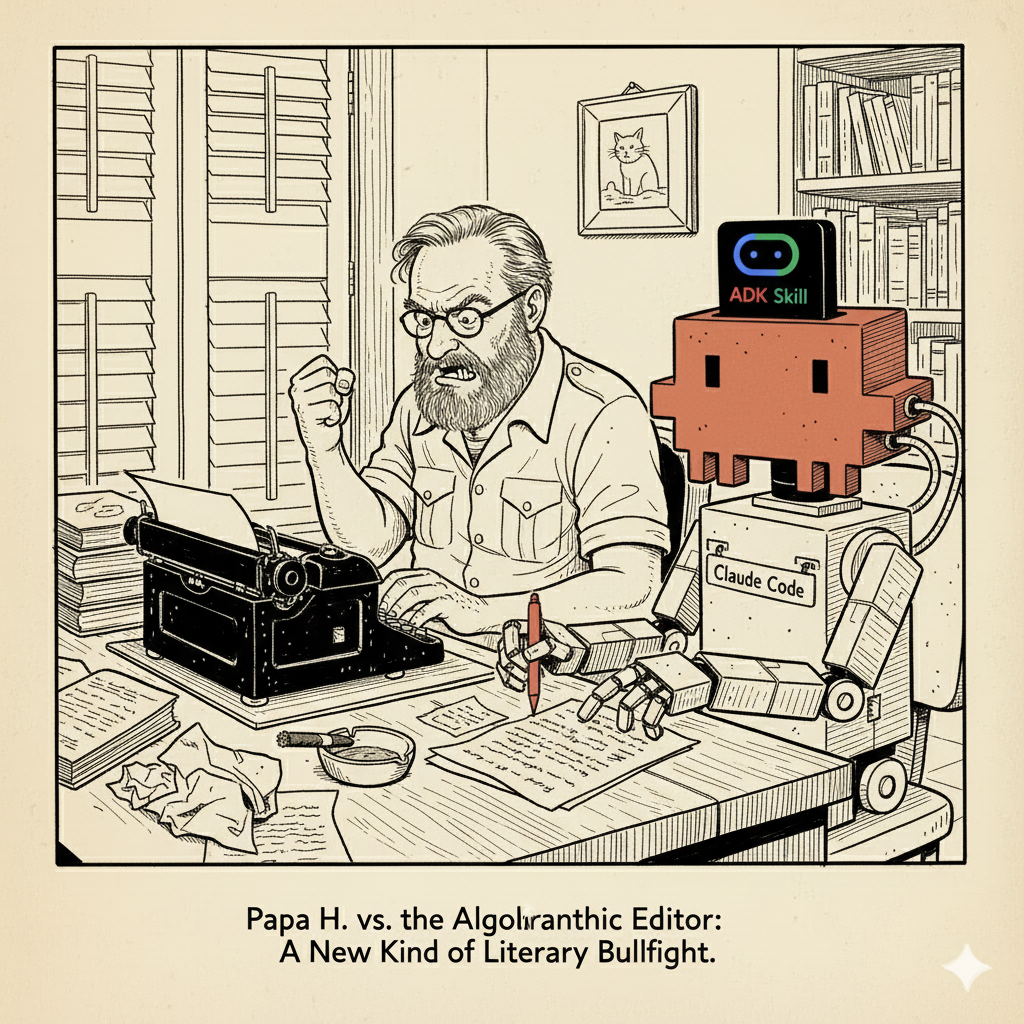
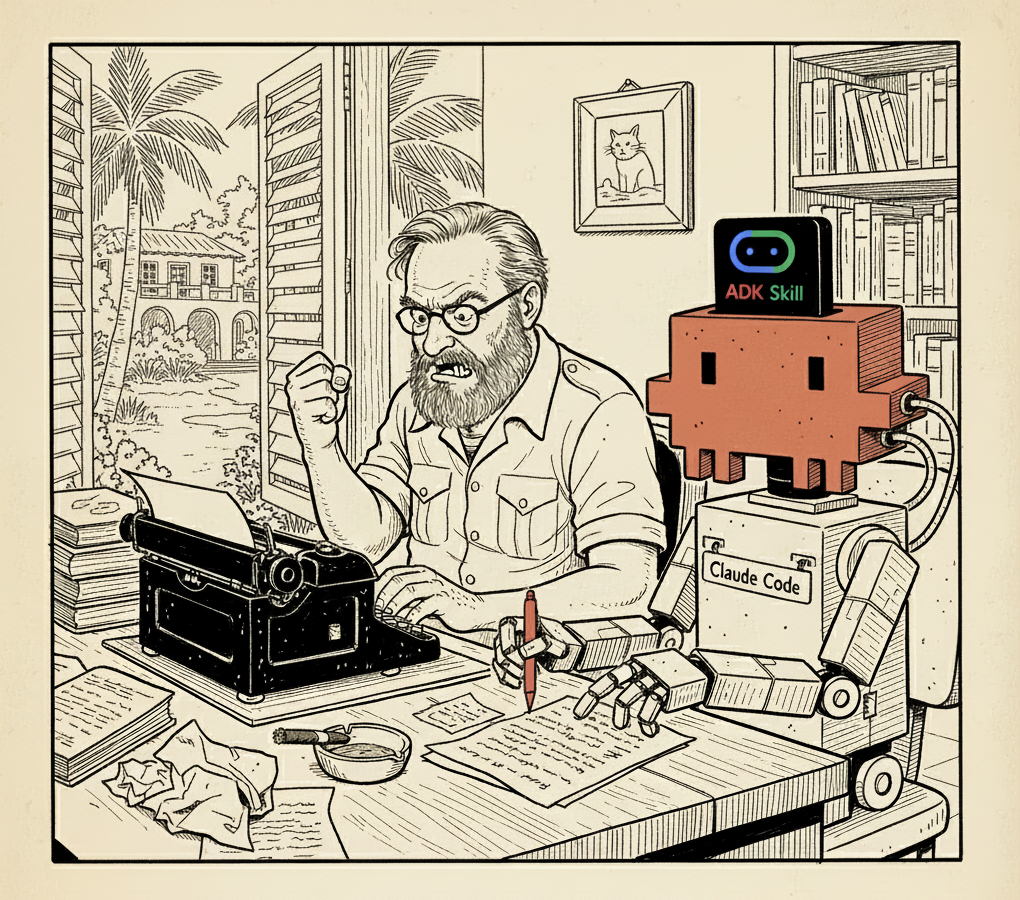
Update article intro and hero image caption
- Add caption to Ernest and agent hero image
- Refine introductory text for clarity
- Update bullet points to focus on key challenges

🤖 Generated with [Claude Code](https://claude.com/claude-code)

diff --git a/20251028_claude_reviewer_for_adk/article.md b/20251028_claude_reviewer_for_adk/article.md
@@ -1,8 +1,10 @@
 # Supercharge Tech Writing with Claude Code Subagents and Agent Skills
 
-As a developer advocate, I've always faced a challenge: how do you maintain high-quality technical documentation that's technically accurate, well-written, and consistent with the latest updates? Recently, I discovered a powerful approach using [Claude Code](https://docs.claude.com/en/docs/claude-code)'s subagents and agent skills that transformed my workflow.
+As a developer advocate, I've always faced a challenge: how do you maintain high-quality technical documentation that's technically accurate, well-written and formated, and consistent with the latest updates? Recently, I discovered a powerful approach using [Claude Code](https://docs.claude.com/en/docs/claude-code)'s subagents and agent skills that transformed my workflow.
 
 ![Ernest and agent](assets/ernest-and-agent.png)
+<p align="center"><em>Papa H. vs the Agentic Editor:<br>A New Kind of Literary Bullfight</em></p>
+
 
 ## The Challenge: Updating a Complex Technical Article
 
@@ -13,10 +15,9 @@ I recently needed to update my article on writing a custom application with [ADK
 
 This wasn't just about fixing a few typos - I needed to:
 
-- Update all code snippets to match the latest ADK API
 - Improve the writing quality and consistency
 - Ensure code examples followed best practices
-- Verify technical accuracy against the latest SDK implementation
+- Verify technical consistency against the latest SDK implementation
 
 This seemingly simple task revealed the core challenges of high-quality technical writing.
 
